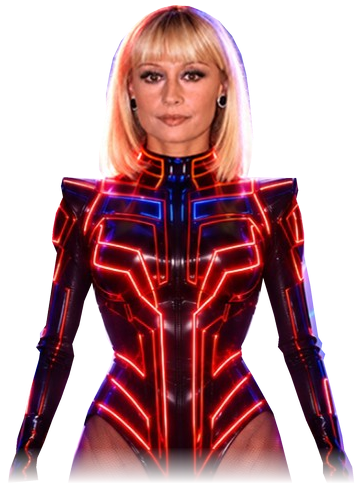
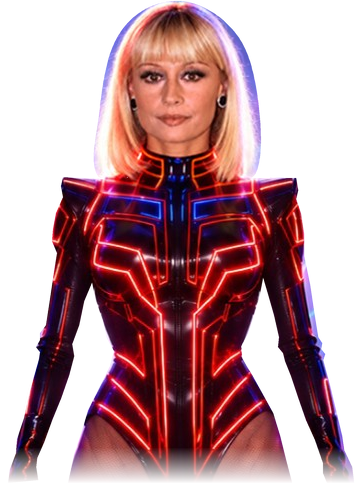
Add files via upload

Changed region(s): [[0.2431, 0.0, 0.6381, 0.3719], [0.6381, 0.062, 0.7293, 0.3719]]

diff --git a/concert.css b/concert.css
@@ -62,3 +62,45 @@ body.is-hidden .scene-lasers i{animation-play-state:paused}
 @media(max-aspect-ratio:1/1){.action-dock{flex-direction:column;align-items:center;justify-content:flex-start;gap:9px;height:126px;bottom:calc(10.7% + env(safe-area-inset-bottom))}.ticket-button{flex-shrink:0}.home-signup{width:296px}.home-signup label{margin-bottom:5px;text-align:center;font-size:9px}.home-signup .email-row{height:44px}.home-signup .form-status{text-align:center}.home-signup .form-status[data-status-key=error]{position:static}.show-copy{bottom:26.5%}}
 @media(max-height:650px) and (max-aspect-ratio:1/1){.action-dock{height:103px;gap:6px;bottom:calc(9.5% + env(safe-area-inset-bottom))}.show-copy{bottom:30.5%}.home-signup{width:274px}.home-signup label{font-size:8px;margin-bottom:4px}.home-signup .email-row{height:39px;padding:3px}.home-signup .email-row button{min-height:31px}.home-signup .email-row input{padding:3px 8px}}
 @media(max-height:580px) and (min-aspect-ratio:1/1){.action-dock{flex-direction:row;align-items:flex-end;gap:18px;height:62px;bottom:calc(10% + env(safe-area-inset-bottom))}.home-signup{width:270px}.home-signup .email-row{height:40px;padding:3px}.home-signup .email-row button{min-height:32px}.home-signup label{font-size:8px;margin-bottom:4px}.show-copy{bottom:29%}}
+
+/* Reference composition: marquee behind the original head, title at the hips. */
+.scene-background{opacity:.85}
+.scene-shade{background:linear-gradient(180deg,#03041060,transparent 35%,#03030e25 65%,#03030eaa),radial-gradient(ellipse at 50% 42%,transparent 30%,#02020c55)}
+.stage-marquee{top:8%;width:min(89vw,1230px,145vh)}
+.character-layer{top:18%;height:80%;max-height:1098px;aspect-ratio:518/1098}
+.stage-signature{top:36%;right:12%;width:min(18vw,235px)}
+.show-copy{top:53%;bottom:auto;width:min(90vw,1200px);gap:8px}
+.show-copy:before{content:"";position:absolute;z-index:-1;inset:-12px -3vw;background:radial-gradient(ellipse,#070719d9,transparent 72%);pointer-events:none}
+.show-date{margin-top:7px}
+.action-dock{top:74%;bottom:auto;height:auto;flex-direction:column;align-items:center;gap:12px}
+.ticket-button{height:56px;min-width:360px}
+.home-signup{width:320px}.home-signup label{text-align:center}
+.scene-partners{bottom:3%;height:68px}
+.radio-partner img{width:46px;height:46px}
+@media(max-aspect-ratio:1/1){
+ .stage-marquee{top:10%;width:98vw}
+ .character-layer{top:19%;height:79%}
+ .stage-signature{display:block;top:36%;right:3%;width:21vw;opacity:.8}
+ .show-copy{top:54%;bottom:auto;width:98vw;gap:8px}
+ .show-subtitle{width:93%}.show-date{width:90%;margin-top:6px}.show-date img{width:62vw;max-width:340px}
+ .action-dock{top:67%;bottom:auto;gap:12px;height:auto}
+ .ticket-button{min-width:300px;height:52px}
+ .home-signup{width:290px}.home-signup .email-row{height:42px}
+ .scene-partners{bottom:3%;height:55px}.radio-partner{bottom:12px}.radio-partner img{width:39px;height:39px}
+}
+@media(max-height:650px) and (max-aspect-ratio:1/1){
+ .stage-marquee{top:11%;width:97vw}.character-layer{top:21%;height:77%}
+ .show-copy{top:54%;gap:5px}.show-date{margin-top:3px}
+ .action-dock{top:69%;gap:7px}.ticket-button{height:43px;min-width:280px}
+ .home-signup{width:274px}.home-signup .email-row{height:37px}
+ .scene-partners{bottom:2%;height:35px}.radio-partner{bottom:0}.radio-partner img{width:27px;height:27px}
+}
+@media(max-height:580px) and (min-aspect-ratio:1/1){
+ .stage-marquee{top:10%;width:110vh}.character-layer{top:20%;height:80%}
+ .show-copy{top:51%;width:min(75vw,145vh);gap:4px}.show-date{margin-top:2px}
+ .stage-signature{top:34%;right:16%;width:14vw}
+ .action-dock{top:78%;height:42px;flex-direction:row;align-items:flex-end;gap:15px}
+ .ticket-button{min-width:265px;height:40px}.home-signup{width:255px}.home-signup .email-row{height:37px}
+ .scene-partners{bottom:5px;height:28px}.radio-partner img{width:23px;height:23px}.radio-partner span{font-size:4px}
+ .production-mark{width:90px;height:28px}.venue-mark{width:90px}
+}

diff --git a/index.html b/index.html
@@ -24,7 +24,7 @@
     <div class="scene-lasers" aria-hidden="true"><i></i><i></i><i></i></div>
     <div class="scene-art" id="sceneArt">
       <div class="stage-marquee"><img src="scene-name.png" alt="Raffaella Carrà" width="794" height="202" fetchpriority="high"></div>
-      <div class="character-layer"><img class="stage-character" src="scene-raffaella.png" alt="Raffaella Carrà" width="362" height="484" fetchpriority="high"></div>
+      <div class="character-layer"><img class="stage-character" src="scene-raffaella-full.png" alt="Raffaella Carrà" width="518" height="1098" fetchpriority="high"></div>
       <img class="stage-signature" src="scene-signature.png" alt="" aria-hidden="true">
     </div>
     <div class="show-copy">

diff --git a/README_FULLSCREEN.md b/README_FULLSCREEN.md
@@ -2,7 +2,7 @@
 
 Home senza scroll composta da livelli HTML indipendenti: sfondo a copertura totale, insegna, figura originale scontornata, firma, titolo, sottotitolo, data e marchi dei partner. Le scritte principali provengono dai ritagli della locandina; il viso non è stato rigenerato. La locandina intera è disponibile solo per il download e l'anteprima social.
 
-La composizione si adatta allo schermo. Entrata progressiva, fasci luminosi leggeri e parallax discreto sui livelli con mouse; movimento disattivato con `prefers-reduced-motion`. Menu completo con Home, concerto, biglietti, merchandising e iscrizione. Campo email direttamente in home, accanto ai biglietti su desktop e sotto su mobile; ulteriori accessi dal menu e dalla finestra merchandising. Le iscrizioni usano tutte lo stesso endpoint /api/subscribe e condividono conferma e stato. Merchandising in arrivo con avviso al lancio. Sei lingue e audio solo su richiesta.
+La composizione si adatta allo schermo. Entrata progressiva, fasci luminosi leggeri e parallax discreto sui livelli con mouse; movimento disattivato con `prefers-reduced-motion`. Menu completo con Home, concerto, biglietti, merchandising e iscrizione. Campo email direttamente in home, sotto ai biglietti; affiancato negli schermi orizzontali bassi; ulteriori accessi dal menu e dalla finestra merchandising. Le iscrizioni usano tutte lo stesso endpoint /api/subscribe e condividono conferma e stato. Merchandising in arrivo con avviso al lancio. Sei lingue e audio solo su richiesta.
 
 ## Aggiornare il sito esistente
 
@@ -29,3 +29,9 @@ Quando il link è disponibile, inseriscilo in `site-config.js`, nel campo `ticke
 Browser Chromium: 1440×900, 390×844, 320×568, 768×1024, 844×390, 2560×1080. Verificati almeno otto elementi immagine distinti nella scena, assenza della locandina intera nella home, assenza di overflow, immagini, finestre, contenimento del focus, Escape, cambio delle sei lingue e riduzione del movimento. Verificati anche menu → merchandising → iscrizione, iscrizione dalla home e sincronizzazione della conferma fra i moduli. Modulo verificato con risposte simulate di successo ed errore, senza creare iscritti né inviare email. Le credenziali backend non sono state usate nei test.
 
 Per l'anteprima locale: `python3 -m http.server 8000`, poi apri `http://localhost:8000`. Le funzioni Cloudflare non vengono eseguite da questo server statico.
+
+## Revisione del riferimento dell’8 ottobre
+
+Disposizione aggiornata: insegna dietro la testa, figura intera, titolo sui fianchi, sottotitolo e data, pulsante Vivaticket, iscrizione e partner. Il volto e i capelli provengono dal JPG originale, con maschera corretta per conservare il contorno. Le gambe sono ritagliate dalla stessa locandina; la fascia coperta dalle scritte originali viene sfumata sotto i livelli del titolo. Nessuna ricostruzione generativa del volto. La figura è `scene-raffaella-full.png` (518×1098).
+
+Il master ricevuto è di 864×1536 pixel: il nuovo ritaglio evita l’ingrandimento precedente del primo piano, ma non aggiunge dettagli reali assenti dal JPG. Per una resa superiore su schermi ad alta densità serve il master originale a maggiore risoluzione.
